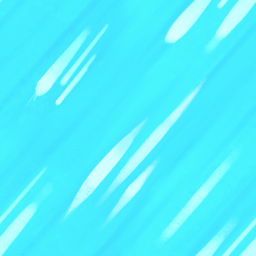
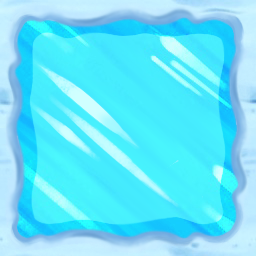
Add new menu background, attack animation, tiles, etc. fix bugs

diff --git a/can-you-survive/Input.cpp b/can-you-survive/Input.cpp
@@ -28,20 +28,20 @@ void Engine::input()
 			{
 				playText.setString(aboutStream.str());
 				select = true;
-				playText.setPosition(100, 100);
+				playText.setPosition(500, 100);
 				playText.setCharacterSize(25);
 			}
 			if (Keyboard::isKeyPressed(Keyboard::Num3) && select == false)
 			{
 				playText.setString(instructionsStream.str());
 				select = true;
-				playText.setPosition(100, 100);
+				playText.setPosition(500, 100);
 				playText.setCharacterSize(35);
 			}
 			if (Keyboard::isKeyPressed(Keyboard::Num4) && select == false) {
 				playText.setString(referenceStream.str());
 				select = true;
-				playText.setPosition(100, 100);
+				playText.setPosition(500, 100);
 				playText.setCharacterSize(25);
 			}
 			if (Keyboard::isKeyPressed(Keyboard::Num5) && select == false) {
@@ -228,12 +228,10 @@ void Engine::input()
 							pause = true;
 
 							// Reset all sea fish
-							for (iterSF = lpSeaFish.begin(); iterSF != lpSeaFish.end(); ++iterSF)
+							for (iterSF = lpSeaFish.begin(); iterSF != lpSeaFish.end(); iterSF++)
 							{
-								if ((*iterSF)->getActive())
-								{
-									(*iterSF)->setActive(false);
-								}
+								(*iterSF)->setActive(false);
+								(*iterSF)->setPosition(-1000, -1000);
 							}
 						}
 					}

diff --git a/can-you-survive/Player.cpp b/can-you-survive/Player.cpp
@@ -216,6 +216,32 @@ void Player::Movement(float elapsedTime, float totalTime, Vector2f mapBounds)
 		}
 	}
 
+	if (m_attacked)
+	{
+		m_attackAnimTimer += elapsedTime;
+
+		if (m_attackAnimTimer > 0.1)
+		{
+			// if rect is at the right most of the sprite sheet stop animation and reset
+			if (rectSourceAttack.left == 320)
+			{
+				rectSourceAttack.left = 0;
+				m_attacked = false;
+			}
+			// else just jump to the right one
+			else rectSourceAttack.left += 64;
+
+			// set the sprite to the correct texture and rect properties
+			m_AttackedSprite = Sprite(m_AttackedTexture, rectSourceAttack);
+
+			// set the animate timer back to 0
+			m_attackAnimTimer = 0;
+
+			m_AttackedSprite.setPosition(m_Position);
+			m_AttackedSprite.setOrigin(32, 32);
+		}
+	}
+
 	// set origin and position
 	m_Sprite.setOrigin(32, 32);
 	m_Sprite.setPosition(m_Position);

diff --git a/can-you-survive/PolarBear.cpp b/can-you-survive/PolarBear.cpp
@@ -18,6 +18,14 @@ PolarBear::PolarBear(Vector2f position)
 
 	moveTime = 0;
 	m_damage = 5;
+
+	m_AttackedTexture.loadFromFile("graphics/attack.png");
+	rectSourceAttack = sf::IntRect(0, 0, 64, 64);
+	m_AttackedSprite = Sprite(m_AttackedTexture, rectSourceAttack);
+	m_AttackedSprite.setOrigin(32, 32);
+
+	m_attacked = false;
+	m_attackAnimTimer = 0;
 }
 
 //Used to spawn new polarbear when they die
@@ -47,6 +55,7 @@ int PolarBear::Attack()
 void PolarBear::ReduceHealth(int reduce)
 {
 	health = health - reduce;
+	m_attacked = true;
 }
 
 //Return the global bounds of the polar bear
@@ -65,6 +74,16 @@ Vector2f PolarBear::getCenter()
 Sprite PolarBear::getSprite()
 {
 	return m_Sprite;
+}
+
+Sprite PolarBear::getAttackedSprite()
+{
+	return m_AttackedSprite;
+}
+
+bool PolarBear::isAttacked()
+{
+	return m_attacked;
 }
 
 //Check if alive and if not

diff --git a/can-you-survive/Enemy.cpp b/can-you-survive/Enemy.cpp
@@ -261,6 +261,32 @@ void Enemy::Movement(float elapsedTime, float totalTime, Vector2f mapBounds)
 		}
 	}
 
+	if (m_attacked)
+	{
+		m_attackAnimTimer += elapsedTime;
+
+		if (m_attackAnimTimer > 0.1)
+		{
+			// if rect is at the right most of the sprite sheet stop animation and reset
+			if (rectSourceAttack.left == 320)
+			{
+				rectSourceAttack.left = 0;
+				m_attacked = false;
+			}
+			// else just jump to the right one
+			else rectSourceAttack.left += 64;
+
+			// set the sprite to the correct texture and rect properties
+			m_AttackedSprite = Sprite(m_AttackedTexture, rectSourceAttack);
+
+			// set the animate timer back to 0
+			m_attackAnimTimer = 0;
+
+			m_AttackedSprite.setPosition(m_Position);
+			m_AttackedSprite.setOrigin(32, 32);
+		}
+	}
+
 	//Depending on number, change position
 
 

diff --git a/can-you-survive/SetupUI.cpp b/can-you-survive/SetupUI.cpp
@@ -10,6 +10,10 @@ void Engine::setupUI()
 	blackoutS.setTexture(blackoutT);
 	blackoutS.scale(4.0, 4.0);
 
+	backgroundTexture.loadFromFile("graphics/menu.png");
+	background.setTexture(backgroundTexture);
+	background.setPosition(0, 0);
+
 	//All the text used for the game
 	font.loadFromFile("fonts/KOMIKAP_.ttf");
 
@@ -49,11 +53,11 @@ void Engine::setupUI()
 		"\nJorge Baptista" <<
 		"\n" <<
 		"\n Artist:" <<
-		"\n Isabelle Rellinghaus";
+		"\n Isabell Rellinghaus";
 	playText.setString(playStream.str());
 	playText.setCharacterSize(75);
 	playText.setFillColor(Color::White);
-	playText.setPosition(550, 400);
+	playText.setPosition(700, 400);
 
 	//introText font
 	introText.setFont(font);

diff --git a/can-you-survive/draw.cpp b/can-you-survive/draw.cpp
@@ -8,6 +8,7 @@ void Engine::draw()
 	{
 		m_Window.clear(Color(0, 0, 0)); // clear the m_Window
 		m_Window.setView(m_HudView);
+		m_Window.draw(background);
 		m_Window.draw(playText);
 
 	}
@@ -36,6 +37,11 @@ void Engine::draw()
 		for (iter = lpPolarBears.begin(); iter != lpPolarBears.end(); ++iter)
 		{
 			m_Window.draw((*iter)->getSprite());
+
+			if ((*iter)->isAttacked())
+			{
+				m_Window.draw((*iter)->getAttackedSprite());
+			}
 		}
 
 		// Iterate through the fish list and draw each fish

diff --git a/can-you-survive/PolarBear.h b/can-you-survive/PolarBear.h
@@ -29,6 +29,10 @@ public:
 	//Returns the sprite
 	Sprite getSprite();
 
+	Sprite getAttackedSprite();
+
+	bool isAttacked();
+
 	//Will return health
 	int getHealth();
 
@@ -78,5 +82,14 @@ protected:
 
 	// control animation speed
 	float m_animateTimer;
+
+	// Control attacked animation
+
+	Texture m_AttackedTexture;
+	Sprite m_AttackedSprite;
+	IntRect rectSourceAttack;
+
+	bool m_attacked;
+	float m_attackAnimTimer;
 };
 #endif

diff --git a/can-you-survive/Engine.cpp b/can-you-survive/Engine.cpp
@@ -361,7 +361,7 @@ void Engine::run()
 								// chance to spawn on this tile
 								if ((rand() % 20) >= 18)
 								{
-									for (iterSF = lpSeaFish.begin(); iterSF != lpSeaFish.end(); ++iterSF)
+									for (iterSF = lpSeaFish.begin(); iterSF != lpSeaFish.end(); iterSF++)
 									{
 										if (!((*iterSF)->getActive()))
 										{

diff --git a/can-you-survive/Engine.h b/can-you-survive/Engine.h
@@ -106,6 +106,9 @@ private:
 	Color blackoutCDarken;
 	Color blackoutCLighten;
 
+	Texture backgroundTexture;
+	Sprite background;
+
 	Font font;
 
 	// Text for MENU m_State 
